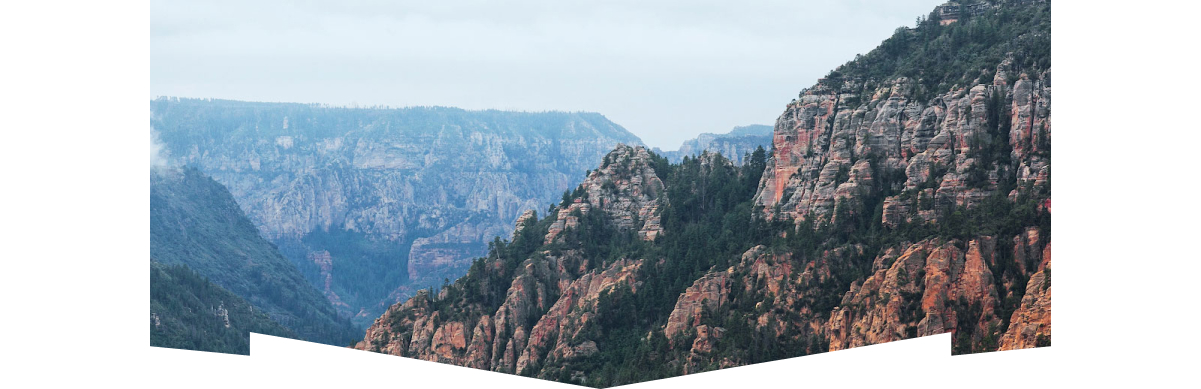
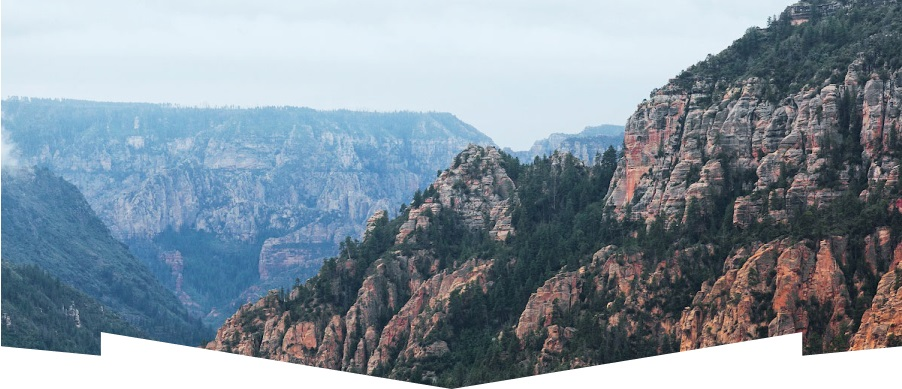
Добавляет исправления по Pixel Perfect страницы формы

diff --git a/source/sass/blocks/page-main.scss b/source/sass/blocks/page-main.scss
@@ -7,36 +7,37 @@
   height: 389px;
   text-align: center;
   background-color: $color-light-blue;
-  /* background-image: url("../img/main-background-tablet.jpg"); */
-  background-position: center center;
+  background-position: center bottom;
   background-repeat: no-repeat;
 
-  @media (max-width: $width-mobile) {
+  @media (max-width: $width-mobile-only) {
     background-image: url("../img/main-background-mobile.jpg");
-  }
-
-  @media (min-width: 321px) and (max-width: 767px) {
-    background-image: url("../img/main-background-tablet.jpg");
+    background-size: cover;
   }
 
   @media (min-width: $width-tablet) {
+    background-image: url("../img/main-background-tablet.jpg");
+    height: 518px;
+    background-size: cover;
+  }
+
+  @media (min-width: $width-desktop) {
     background-image: url("../img/main-background-desktop.jpg");
     height: 518px;
   }
 
   &--short {
+    background-position: center bottom;
+
     @media (max-width: $width-mobile-only) {
-      background-position: center -231px;
       height: 158px;
     }
 
     @media (min-width: $width-tablet) {
-      background-position: center -228px;
       height: 290px;
     }
 
     @media (min-width: $width-desktop) {
-      background-position: center -217px;
       height: 299px;
     }
   }

diff --git a/source/sass/blocks/feedback.scss b/source/sass/blocks/feedback.scss
@@ -62,7 +62,7 @@
 
   @media (min-width: $width-desktop) {
     padding: 0 260px;
-    margin-bottom: 56px;
+    margin-bottom: 59px;
   }
 }
 
@@ -103,6 +103,7 @@
 .feedback__input {
   box-sizing: border-box;
   width: 100%;
+  height: 58px;
   padding: 18px 22px 14px 22px;
 
   @include fontMeasure(700, 16px, 26px);
@@ -120,7 +121,8 @@
 
   &:focus {
     background-color: $color-white;
-    outline: 4px solid $color-gray-disabled;
+    outline: none;
+    border: 4px solid $color-gray-disabled;
   }
 }
 
@@ -137,6 +139,7 @@
 
 .feedback__button {
   display: block;
+  padding-top: 7px;
   margin: 0 auto;
   cursor: pointer;
 
@@ -515,7 +518,7 @@
 
   .feedback__radio-button:focus + .feedback__label {
     &::before {
-      outline: 2px solid $color-gray;
+      border: 4px solid $color-gray;
     }
   }
 }
@@ -604,7 +607,7 @@
 
   .feedback__checkbox:focus + .feedback__label {
     &::before {
-      outline: 2px solid $color-gray;
+      border: 4px solid $color-gray;
     }
   }
 
@@ -695,7 +698,8 @@
 
     &:focus {
       background-color: $color-white;
-      outline: 4px solid $color-gray-disabled;
+      outline: none;
+      border: 4px solid $color-gray-disabled;
     }
   }
 

diff --git a/source/form.html b/source/form.html
@@ -29,7 +29,7 @@
               <a href="https://htmlacademy.ru/" target="_blank">Html academy</a>
             </li>
           </ul>
-          <a class="page-header__logo">
+          <a class="page-header__logo" href="index.html">
             <img class="page-header__logo--mobile" src="img/logo.svg" width="102" height="84" alt="Городок Седона">
             <img class="page-header__logo--desktop" src="img/logo-desktop.svg" width="187" height="97" alt="Городок Седона">
             <img class="page-header__logo--tablet" src="img/logo-tablet.svg" width="102" height="84" alt="Городок Седона">

diff --git a/source/sass/blocks/main-nav.scss b/source/sass/blocks/main-nav.scss
@@ -166,7 +166,7 @@
     @include fontMeasure(700, 14px, 26px);
 
     &:nth-child(4n + 2) {
-      margin-right: 156px;
+      margin-right: 154px;
 
       @media (min-width: $width-desktop) {
         margin-right: 250px;
@@ -183,7 +183,7 @@
   color: $color-white;
 
   @media (min-width: $width-tablet) {
-    min-width: 153px;
+    min-width: 145px;
     padding: 16px 0 14px 0;
     color: $color-black;
 

diff --git a/source/sass/blocks/features.scss b/source/sass/blocks/features.scss
@@ -19,7 +19,7 @@
       width: 100%;
       height: 37px;
       left: 0;
-      top: 64px;
+      top: 63px;
       background-image: url("../img/features-intro-after.svg");
       background-repeat: no-repeat;
       background-position: center;
